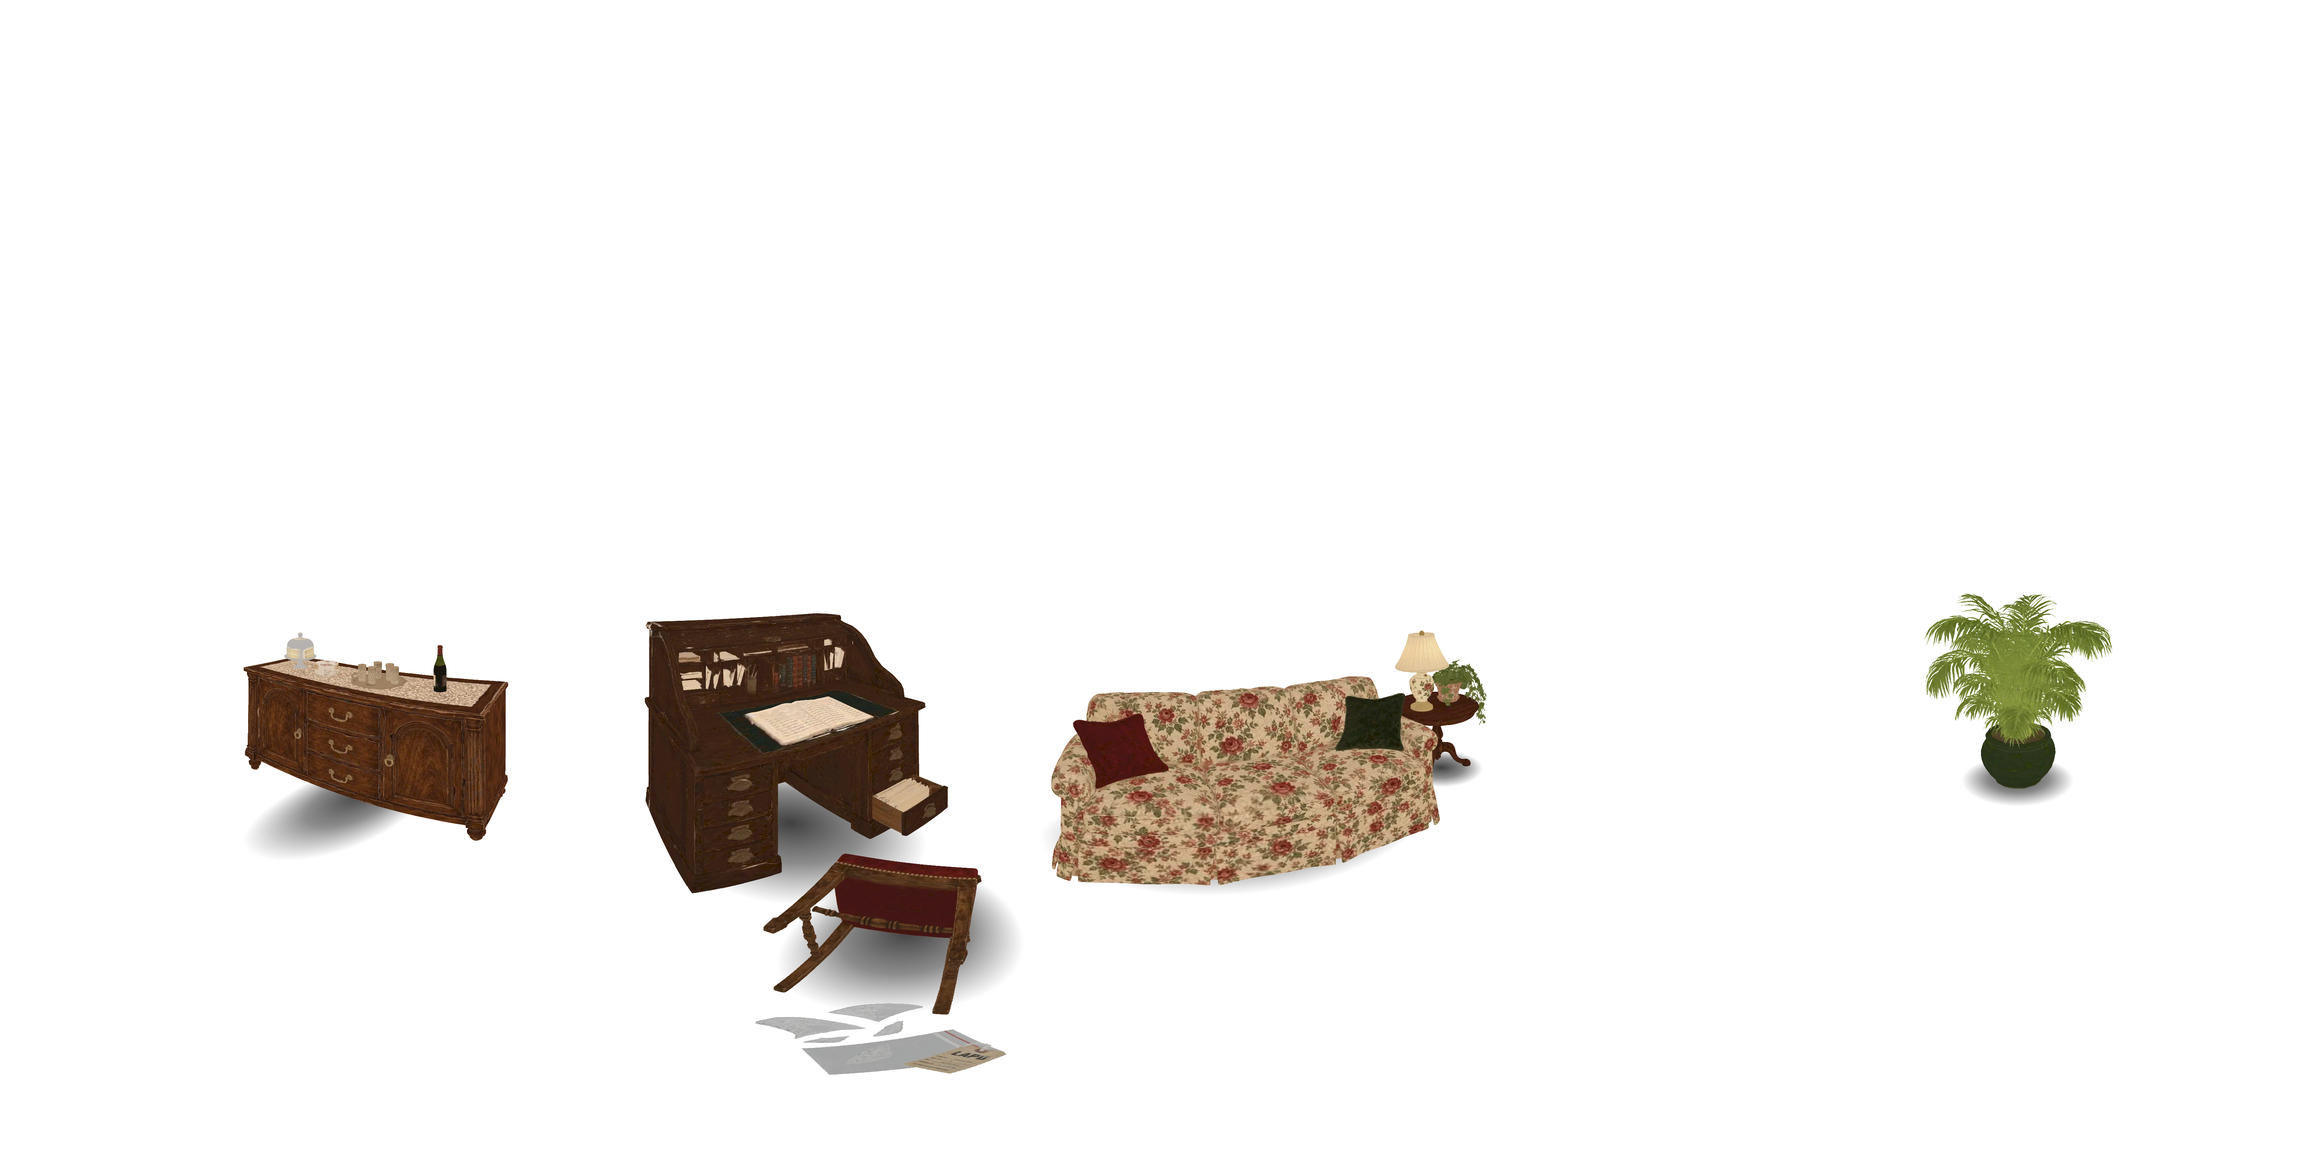
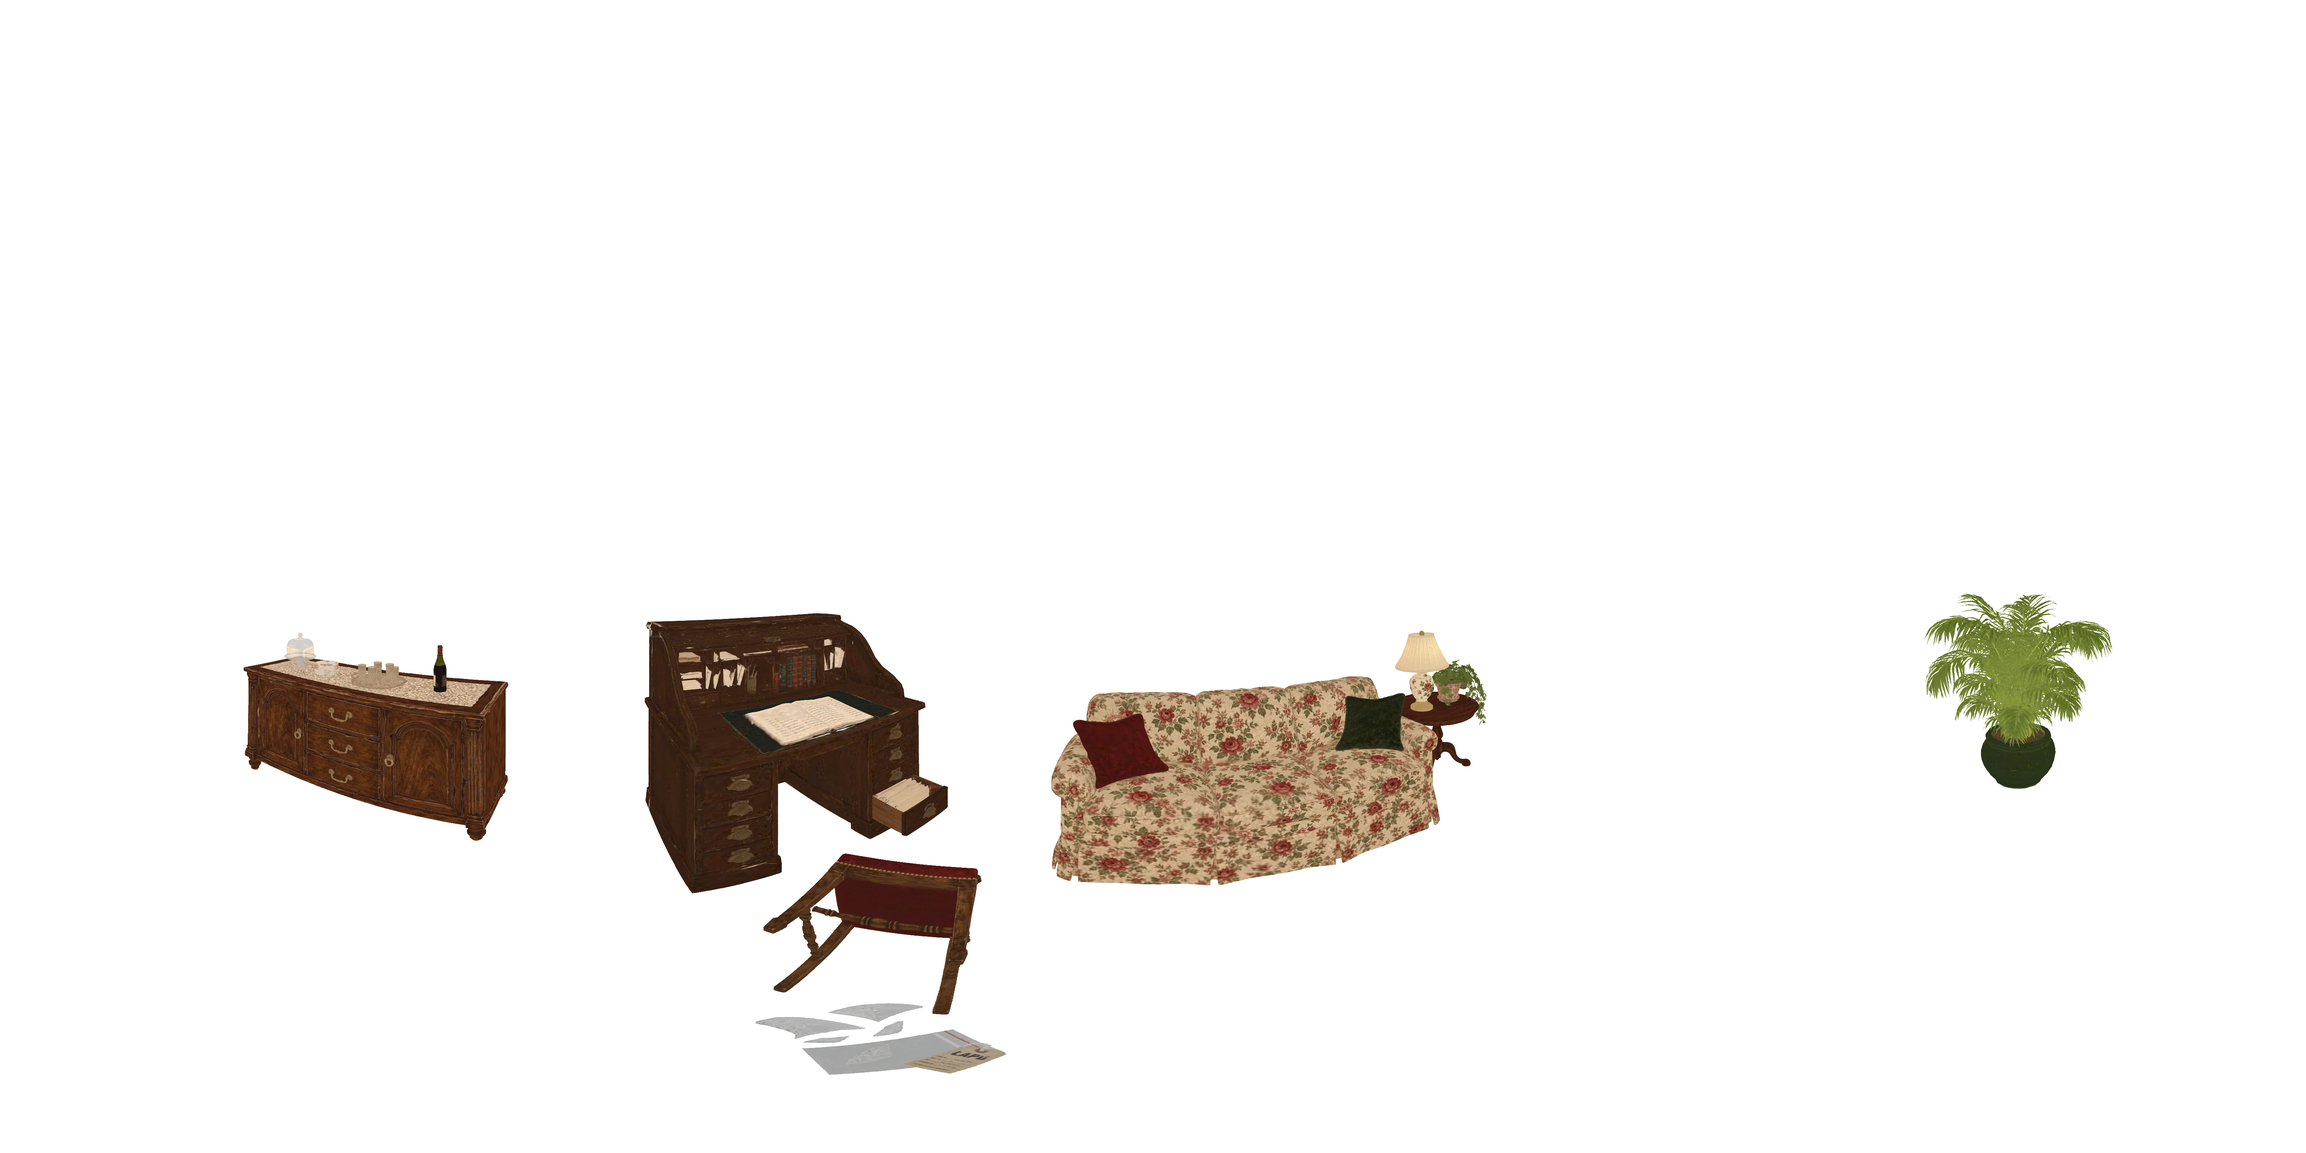
Testing Zone: light the living room's 3D furniture and cast its shadows
Soft room light and window light rendered on the models (day and night), with the
furniture's shadows on the floor and walls and soft contact shadows under each piece.

Claude-Session: https://claude.ai/code/session_013LCfUXWQD6NCZDVs8qittP

diff --git a/src/game/testing/panorama-viewer.tsx b/src/game/testing/panorama-viewer.tsx
@@ -25,7 +25,7 @@ uniform float lamp, lampStrength; uniform vec3 lampPos, lampCol;
 // Rooms lit in code: the light map (r = moonlight, g = inside the room), the night level and the moon.
 uniform sampler2D lm; uniform float lmOn, moonLevel; uniform vec3 ambient, moonCol;
 // Furniture from 3D models: a 360° picture with transparency, lit like the room but without the light map's patches.
-uniform sampler2D fu; uniform float fuOn, fuGain;
+uniform sampler2D fu, fl; uniform float fuOn, fuGain, flOn;
 const float PI = 3.14159265359;
 void main(){
   vec3 d = normalize(vec3(v.x*tanHalf*aspect, v.y*tanHalf, -1.));
@@ -81,8 +81,10 @@ void main(){
   }
   if (fuOn > 0.5) {
     vec4 fv = texture(fu, vec2(u, vv));
-    vec3 fl = lmOn > 0.5 ? ambient * 0.92 + moonCol * 0.18 * moonLevel + bulb * 0.4 : vec3(1.) + bulb;
-    col = mix(col, fv.rgb * fuGain * fl, fv.a);
+    // Light map for the furniture: r = soft room light (darker underneath), g = light from the window, with shadows.
+    vec2 fla = flOn > 0.5 ? texture(fl, vec2(u, vv)).rg : vec2(0.75, 0.15);
+    vec3 lightOn = lmOn > 0.5 ? ambient * fla.r + moonCol * fla.g * moonLevel + bulb * 0.4 * (0.4 + 0.6 * fla.r) : vec3(1.) + bulb;
+    col = mix(col, fv.rgb * fuGain * lightOn, fv.a);
   }
   o = vec4(col * fade, 1.);
 }`;
@@ -147,7 +149,8 @@ export function PanoramaViewer({ rooms, start, title }: { rooms: TestRoom[]; sta
   }>({ eye: 0.5, list: [], token: {} });
   const lmTexRef = useRef<WebGLTexture | null>(null);
   const fuTexRef = useRef<WebGLTexture | null>(null);
-  const furn = useRef<{ on: boolean; gain: number }>({ on: false, gain: 1 });
+  const furn = useRef<{ on: boolean; gain: number; light: boolean }>({ on: false, gain: 1, light: false });
+  const flTexRef = useRef<WebGLTexture | null>(null);
   /** The room's code lighting, when it has a light map. */
   const lit = useRef<{ on: boolean; ambient: [number, number, number]; moon: [number, number, number] }>({ on: false, ambient: [1, 1, 1], moon: [1, 1, 1] });
   const moonLevel = useRef(1);
@@ -208,7 +211,7 @@ export function PanoramaViewer({ rooms, start, title }: { rooms: TestRoom[]; sta
     gl.texParameteri(gl.TEXTURE_2D, gl.TEXTURE_MIN_FILTER, gl.LINEAR);
     gl.texParameteri(gl.TEXTURE_2D, gl.TEXTURE_MAG_FILTER, gl.LINEAR);
     gl.texImage2D(gl.TEXTURE_2D, 0, gl.RGB, 1, 1, 0, gl.RGB, gl.UNSIGNED_BYTE, new Uint8Array([0, 0, 0]));
-    const u = Object.fromEntries(["t", "yaw", "pitch", "tanHalf", "aspect", "fade", "boxOn", "light", "lightStrength", "box", "lightPos", "lightCol", "lm", "lmOn", "moonLevel", "ambient", "moonCol", "lamp", "lampStrength", "lampPos", "lampCol", "fu", "fuOn", "fuGain"].map((n) => [n, gl.getUniformLocation(prog, n)]));
+    const u = Object.fromEntries(["t", "yaw", "pitch", "tanHalf", "aspect", "fade", "boxOn", "light", "lightStrength", "box", "lightPos", "lightCol", "lm", "lmOn", "moonLevel", "ambient", "moonCol", "lamp", "lampStrength", "lampPos", "lampCol", "fu", "fuOn", "fuGain", "fl", "flOn"].map((n) => [n, gl.getUniformLocation(prog, n)]));
     const lmTex = gl.createTexture()!;
     gl.bindTexture(gl.TEXTURE_2D, lmTex);
     gl.texParameteri(gl.TEXTURE_2D, gl.TEXTURE_WRAP_S, gl.REPEAT);
@@ -227,6 +230,15 @@ export function PanoramaViewer({ rooms, start, title }: { rooms: TestRoom[]; sta
     gl.texImage2D(gl.TEXTURE_2D, 0, gl.RGBA, 1, 1, 0, gl.RGBA, gl.UNSIGNED_BYTE, new Uint8Array([0, 0, 0, 0]));
     gl.bindTexture(gl.TEXTURE_2D, tex);
     fuTexRef.current = fuTex;
+    const flTex = gl.createTexture()!;
+    gl.bindTexture(gl.TEXTURE_2D, flTex);
+    gl.texParameteri(gl.TEXTURE_2D, gl.TEXTURE_WRAP_S, gl.REPEAT);
+    gl.texParameteri(gl.TEXTURE_2D, gl.TEXTURE_WRAP_T, gl.CLAMP_TO_EDGE);
+    gl.texParameteri(gl.TEXTURE_2D, gl.TEXTURE_MIN_FILTER, gl.LINEAR);
+    gl.texParameteri(gl.TEXTURE_2D, gl.TEXTURE_MAG_FILTER, gl.LINEAR);
+    gl.texImage2D(gl.TEXTURE_2D, 0, gl.RGB, 1, 1, 0, gl.RGB, gl.UNSIGNED_BYTE, new Uint8Array([190, 40, 0]));
+    gl.bindTexture(gl.TEXTURE_2D, tex);
+    flTexRef.current = flTex;
     glRef.current = { gl, tex, u };
 
     const sprog = gl.createProgram()!;
@@ -412,8 +424,12 @@ export function PanoramaViewer({ rooms, start, title }: { rooms: TestRoom[]; sta
       gl.uniform1i(u.fu, 2);
       gl.uniform1f(u.fuOn, furn.current.on ? 1 : 0);
       gl.uniform1f(u.fuGain, furn.current.gain);
+      gl.uniform1i(u.fl, 3);
+      gl.uniform1f(u.flOn, furn.current.light ? 1 : 0);
       gl.activeTexture(gl.TEXTURE2);
       gl.bindTexture(gl.TEXTURE_2D, fuTexRef.current);
+      gl.activeTexture(gl.TEXTURE3);
+      gl.bindTexture(gl.TEXTURE_2D, flTexRef.current);
       gl.activeTexture(gl.TEXTURE0);
       gl.uniform1f(u.light, R.light ? lightLevel.current : 0);
       if (R.box) gl.uniform4f(u.box, R.box[0], R.box[1], R.box[2], R.box[3]);
@@ -494,7 +510,8 @@ export function PanoramaViewer({ rooms, start, title }: { rooms: TestRoom[]; sta
       setMoonOn(true);
     });
     lit.current = { on: false, ambient: r.ambient ?? [1, 1, 1], moon: r.moon ?? [1, 1, 1] };
-    furn.current = { on: false, gain: r.furniture?.gain ?? 1 };
+    furn.current = { on: false, gain: r.furniture?.gain ?? 1, light: false };
+    if (r.furniture?.light) loadFurnitureLight(r.furniture.light, () => cancelled);
     if (r.furniture && fuTexRef.current) {
       const fimg = new Image();
       fimg.onload = () => {
@@ -848,6 +865,22 @@ export function PanoramaViewer({ rooms, start, title }: { rooms: TestRoom[]; sta
     </div>
   );
 
+  /** The furniture's light map (soft light and window light, which change between day and night). */
+  function loadFurnitureLight(src: string, stale: () => boolean) {
+    const g = glRef.current;
+    if (!g || !flTexRef.current) return;
+    const img = new Image();
+    img.onload = () => {
+      if (stale()) return;
+      const { gl } = g;
+      gl.bindTexture(gl.TEXTURE_2D, flTexRef.current);
+      gl.texImage2D(gl.TEXTURE_2D, 0, gl.RGB, gl.RGB, gl.UNSIGNED_BYTE, img);
+      gl.bindTexture(gl.TEXTURE_2D, g.tex);
+      furn.current.light = true;
+    };
+    img.src = src;
+  }
+
   /** Switch to another version of the room (day or night) without moving the view: new image, light map and light levels. */
   function switchVariant(i: number) {
     const g = glRef.current;
@@ -855,6 +888,8 @@ export function PanoramaViewer({ rooms, start, title }: { rooms: TestRoom[]; sta
     variantRef.current = i;
     setVariant(i);
     if (!g || !r.image) return;
+    const fvar = room.variants?.options[i]?.furnitureLight;
+    if (fvar) loadFurnitureLight(fvar, () => variantRef.current !== i);
     lit.current.ambient = r.ambient ?? lit.current.ambient;
     lit.current.moon = r.moon ?? lit.current.moon;
     const img = new Image();

diff --git a/scripts/testing/render3d/light360.html b/scripts/testing/render3d/light360.html
@@ -1,0 +1,70 @@
+<html><body style="margin:0;background:transparent">
+<script type="importmap">{"imports":{"three":"./node_modules/three/build/three.module.js","three/addons/":"./node_modules/three/examples/jsm/"}}</script>
+<script type="module">
+// Lighting passes for a room's furniture, rendered to one 360° picture from the player's eye.
+// pass "albedo": the models' own colors (transparent elsewhere).
+// pass "hemi":  white models lit only by soft sky/ground light (R).  pass "sun": white models lit by the window light,
+//               with the front wall (window holes from its mask) and the furniture casting shadows (R).
+// pass "roomshadow": the furniture's sun shadows on the floor and walls (alpha).  pass "contact": soft shadows under each piece (alpha).
+import * as THREE from 'three';
+import { GLTFLoader } from 'three/addons/loaders/GLTFLoader.js';
+const P = JSON.parse(decodeURIComponent(location.hash.slice(1))); const pass=P.pass;
+const W=P.W||4096,H=W/2;
+const r=new THREE.WebGLRenderer({antialias:true,alpha:true,preserveDrawingBuffer:true}); r.setSize(W,H); r.setPixelRatio(1); r.setClearColor(0,0);
+r.shadowMap.enabled=true; r.shadowMap.type=THREE.PCFSoftShadowMap;
+document.body.appendChild(r.domElement);
+const scene=new THREE.Scene();
+const E=P.eye, RW=P.room[0]/2, RD=P.room[1]/2, RH=1;
+const white=new THREE.MeshLambertMaterial({color:0xffffff, side:THREE.DoubleSide});
+const sc=document.createElement('canvas'); sc.width=sc.height=128; const g2=sc.getContext('2d');
+const gr=g2.createRadialGradient(64,64,0,64,64,64); gr.addColorStop(0,'rgba(0,0,0,0.8)'); gr.addColorStop(0.55,'rgba(0,0,0,0.5)'); gr.addColorStop(1,'rgba(0,0,0,0)');
+g2.fillStyle=gr; g2.fillRect(0,0,128,128); const shadowTex=new THREE.CanvasTexture(sc);
+const L=new GLTFLoader();
+await Promise.all(P.models.map(M=>new Promise(res=>L.load(M.file,g=>{
+  const m=g.scene; const op=M.opacity??1;
+  m.traverse(o=>{ if(o.isMesh){
+    if(pass==='albedo') { o.material=new THREE.MeshBasicMaterial({map:o.material.map, side:THREE.DoubleSide, transparent:op<1, opacity:op, depthWrite:op>=1}); o.renderOrder=op<1?2:0; }
+    else if(pass==='hemi'||pass==='sun') { o.material=white; o.castShadow=true; o.receiveShadow=true; }
+    else { o.material=new THREE.MeshBasicMaterial({colorWrite:false, side:THREE.DoubleSide}); o.castShadow=(M.castsShadow??true)&&op>=1; }
+  }});
+  const inner=new THREE.Group(); inner.add(m); inner.rotation.set((M.rotX||0)*Math.PI/180,0,(M.rotZ||0)*Math.PI/180); inner.updateMatrixWorld(true);
+  const box=new THREE.Box3().setFromObject(inner), size=box.getSize(new THREE.Vector3()), c=box.getCenter(new THREE.Vector3());
+  const off=new THREE.Group(); off.add(inner); off.position.sub(new THREE.Vector3(c.x,box.min.y,c.z));
+  const s=M.size/(M.fit==='y'?size.y:size.x); const grp=new THREE.Group(); grp.add(off); grp.scale.setScalar(s);
+  grp.rotation.y=(M.rotY||0)*Math.PI/180; grp.position.set(...M.pos); scene.add(grp);
+  if(M.shadow && pass==='contact'){ const pl=new THREE.Mesh(new THREE.PlaneGeometry(M.shadow[0],M.shadow[1]),new THREE.MeshBasicMaterial({map:shadowTex,transparent:true,depthWrite:false}));
+    pl.rotation.x=-Math.PI/2; pl.rotation.z=(M.rotY||0)*Math.PI/180; pl.position.set(M.pos[0],-E+0.002,M.pos[2]); scene.add(pl); }
+  res();
+}))));
+const az=P.sun[0]*Math.PI/180, el=P.sun[1]*Math.PI/180;
+const toSun=new THREE.Vector3(Math.sin(az)*Math.cos(el),Math.sin(el),-Math.cos(az)*Math.cos(el));
+function sunLight(){ const d=new THREE.DirectionalLight(0xffffff,Math.PI); d.position.copy(toSun.clone().multiplyScalar(4)); d.target.position.set(0,0,0);
+  d.castShadow=true; d.shadow.mapSize.set(4096,4096); const k=d.shadow.camera; k.left=-2;k.right=2;k.top=2;k.bottom=-2;k.near=0.5;k.far=10; d.shadow.bias=-0.0004; d.shadow.normalBias=0.004; d.shadow.radius=3;
+  scene.add(d); scene.add(d.target); }
+if(pass==='hemi'){ scene.add(new THREE.HemisphereLight(0xffffff,0x5a5a5a,Math.PI*0.55)); }
+if(pass==='sun'){
+  sunLight();
+  // The front wall with its window holes: casts shadows only, never drawn.
+  const t=new THREE.TextureLoader().load(P.frontMask); await new Promise(z=>{const i=setInterval(()=>{if(t.image){clearInterval(i);z();}},20);});
+  const wall=new THREE.Mesh(new THREE.PlaneGeometry(2*RW,RH),new THREE.MeshBasicMaterial({map:t,alphaTest:0.5,colorWrite:false,depthWrite:false,side:THREE.DoubleSide}));
+  wall.position.set(0,-E+RH/2,-RD-0.002); wall.castShadow=true; scene.add(wall);
+}
+if(pass==='roomshadow'){
+  sunLight();
+  const sm=new THREE.ShadowMaterial({opacity:1,color:0x000000,side:THREE.DoubleSide});
+  const add=(w,h,pos,rot)=>{const p=new THREE.Mesh(new THREE.PlaneGeometry(w,h),sm); p.position.set(...pos); p.rotation.set(...rot); p.receiveShadow=true; scene.add(p);};
+  add(2*RW,2*RD,[0,-E+0.001,0],[-Math.PI/2,0,0]);
+  add(2*RW,RH,[0,-E+RH/2,RD-0.001],[0,Math.PI,0]); add(2*RD,RH,[-RW+0.001,-E+RH/2,0],[0,Math.PI/2,0]); add(2*RD,RH,[RW-0.001,-E+RH/2,0],[0,-Math.PI/2,0]);
+}
+const rt=new THREE.WebGLCubeRenderTarget(P.cube||2048,{generateMipmaps:false,minFilter:THREE.LinearFilter,magFilter:THREE.LinearFilter,type:THREE.HalfFloatType});
+const cc=new THREE.CubeCamera(0.005,20,rt); scene.add(cc); cc.update(r,scene);
+const gamma=pass==='albedo'?1/2.2:1.0;
+const q=new THREE.Mesh(new THREE.PlaneGeometry(2,2),new THREE.ShaderMaterial({uniforms:{c:{value:rt.texture}},
+  vertexShader:'varying vec2 v; void main(){v=uv; gl_Position=vec4(position.xy,0.,1.);}',
+  fragmentShader:`uniform samplerCube c; varying vec2 v; const float PI=3.14159265;
+  void main(){ float yaw=(v.x-0.5)*2.*PI, p=(v.y-0.5)*PI;
+    vec3 d=vec3(sin(yaw)*cos(p), sin(p), -cos(yaw)*cos(p));
+    vec4 o=textureCube(c, d);
+    ${pass==='hemi'||pass==='sun' ? 'gl_FragColor=vec4(clamp(o.rgb,0.,1.), o.a);' : pass==='albedo' ? 'gl_FragColor=vec4(pow(max(o.rgb,0.),vec3('+gamma+')), o.a);' : 'gl_FragColor=vec4(0.,0.,0.,o.a);'} }`,depthTest:false}));
+const s2=new THREE.Scene(); s2.add(q); r.render(s2,new THREE.Camera()); window.DONE=1;
+</script></body></html>

diff --git a/src/game/rooms/c001-living-room.ts b/src/game/rooms/c001-living-room.ts
@@ -20,15 +20,15 @@ export const C001_LIVING_ROOM: TestRoom = {
   variants: {
     label: "Time",
     options: [
-      { name: "day", image: "/rooms/c001-living-room/living_day.webp", lightmap: "/rooms/c001-living-room/living_day_light.webp", ambient: [0.82, 0.78, 0.7], moon: [0.95, 0.8, 0.58] },
-      { name: "night", image: "/rooms/c001-living-room/living_night.webp", lightmap: "/rooms/c001-living-room/living_night_light.webp", ambient: [0.2, 0.22, 0.32], moon: [0.42, 0.34, 0.21] },
+      { name: "day", image: "/rooms/c001-living-room/living_day.webp", lightmap: "/rooms/c001-living-room/living_day_light.webp", furnitureLight: "/rooms/c001-living-room/furniture_light_day.webp", ambient: [0.82, 0.78, 0.7], moon: [0.95, 0.8, 0.58] },
+      { name: "night", image: "/rooms/c001-living-room/living_night.webp", lightmap: "/rooms/c001-living-room/living_night_light.webp", furnitureLight: "/rooms/c001-living-room/furniture_light_night.webp", ambient: [0.2, 0.22, 0.32], moon: [0.42, 0.34, 0.21] },
     ],
   },
   // The wrought iron chandelier in the middle of the ceiling.
   light: { x: 0, y: 0.86, z: 0, color: [1.0, 0.84, 0.62], strength: 7 },
   // Every piece of furniture is a 3D model (Meshy), rendered together from the player's eye into one 360° layer
   // (scripts/testing/render3d/render360.html with c001_living_room.json). Models in models/ for walking later.
-  furniture: { image: "/rooms/c001-living-room/furniture.webp", gain: 1.1 },
+  furniture: { image: "/rooms/c001-living-room/furniture.webp", light: "/rooms/c001-living-room/furniture_light_day.webp", gain: 1.05 },
   hotspots: [
     { kind: "switch", id: "lr-switch", yaw: -17.7, pitch: -3.1, label: "Light switch" },
     { kind: "inspect", id: "lr_chair", yaw: -38.2, pitch: -50.5, label: "Overturned chair", text: "Overturned chair: One of the dining chairs, brought in for coffee. It lies on its back." },

diff --git a/src/game/testing/current-test.ts b/src/game/testing/current-test.ts
@@ -81,7 +81,7 @@ export type TestRoom = {
   /** Show the test button that hides and brings back the light from outside (the moon). */
   outsideToggle?: string;
   /** Versions of the room you can switch between (day and night): each swaps the room image, its light map and its light levels. */
-  variants?: { label: string; options: { name: string; image: string; lightmap?: string; ambient?: [number, number, number]; moon?: [number, number, number] }[] };
+  variants?: { label: string; options: { name: string; image: string; lightmap?: string; furnitureLight?: string; ambient?: [number, number, number]; moon?: [number, number, number] }[] };
   /** Test buttons that cycle through states, for things that come and go in the case (deliveries on the desk). */
   toggles?: { id: string; label: string; states: string[] }[];
   /**
@@ -95,7 +95,7 @@ export type TestRoom = {
    * Furniture rendered from 3D models into one 360° picture with transparency (scripts/testing/render3d/render360.html),
    * drawn over the room and lit with it. "gain" brightens it to sit with the room's plain light.
    */
-  furniture?: { image: string; gain?: number };
+  furniture?: { image: string; light?: string; gain?: number };
   moon?: [number, number, number];
 };
 

diff --git a/scripts/testing/render3d/light360.js b/scripts/testing/render3d/light360.js
@@ -1,0 +1,6 @@
+const {chromium}=require('playwright');(async()=>{const P=require(require('path').resolve(process.argv[2]));
+const b=await chromium.launch({args:['--use-gl=angle']});const W=P.W||4096;const p=await b.newPage({viewport:{width:W,height:W/2}});
+p.on('console',m=>{if(!/GPU stall/.test(m.text()))console.log(m.text())}); p.on('pageerror',e=>console.log('ERR',e.message));
+await p.goto('http://localhost:8799/light360.html#'+encodeURIComponent(JSON.stringify(P)));
+await p.waitForFunction(()=>window.DONE,null,{timeout:120000}); 
+await p.locator('canvas').screenshot({path:process.argv[3],omitBackground:true}); await b.close()})();

diff --git a/scripts/testing/render3d/README.md b/scripts/testing/render3d/README.md
@@ -7,3 +7,10 @@
    yaw/pitch: the camera from the player's eye toward the piece; length: its real length in room units (1 unit = 9 ft);
    rotY: degrees to turn the model (its front faces +z as made; 90 turns it to face +x); pos: the middle of its base.
 3. Place the picture as a `view` prop (see src/game/rooms/c001-living-room.ts, the sideboard).
+
+## Lit furniture (light360.html)
+Passes (set "pass" and "sun" [azimuth, elevation] in the room json): albedo (the models' colors), contact (soft shadows
+under each piece), hemi (soft room light), sun (window light, with the front wall's window mask and the furniture casting
+shadows), roomshadow (the furniture's sun shadows on the floor and walls). Packed by hand: furniture.webp = albedo;
+furniture_light_<day|night>.webp = R hemi/0.55, G sun/peak (the room bake's light peak); and the room light map gets
+R *= 1 - roomshadow*0.92 and B *= 1 - contact*0.7.
